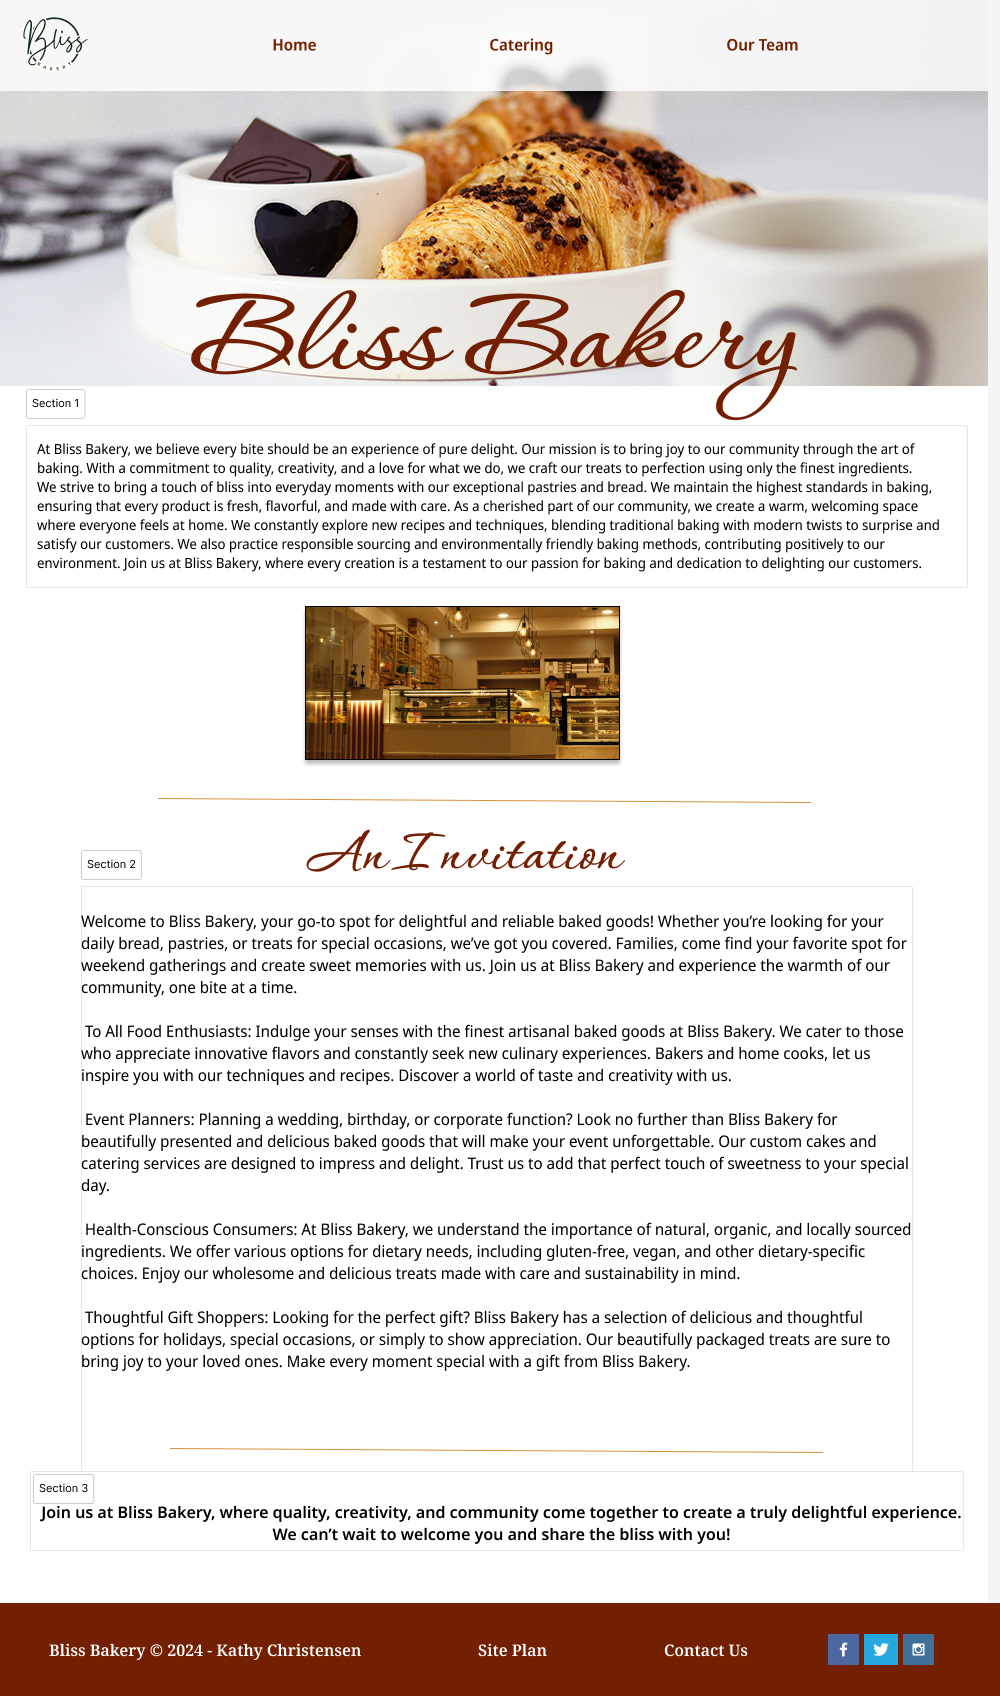
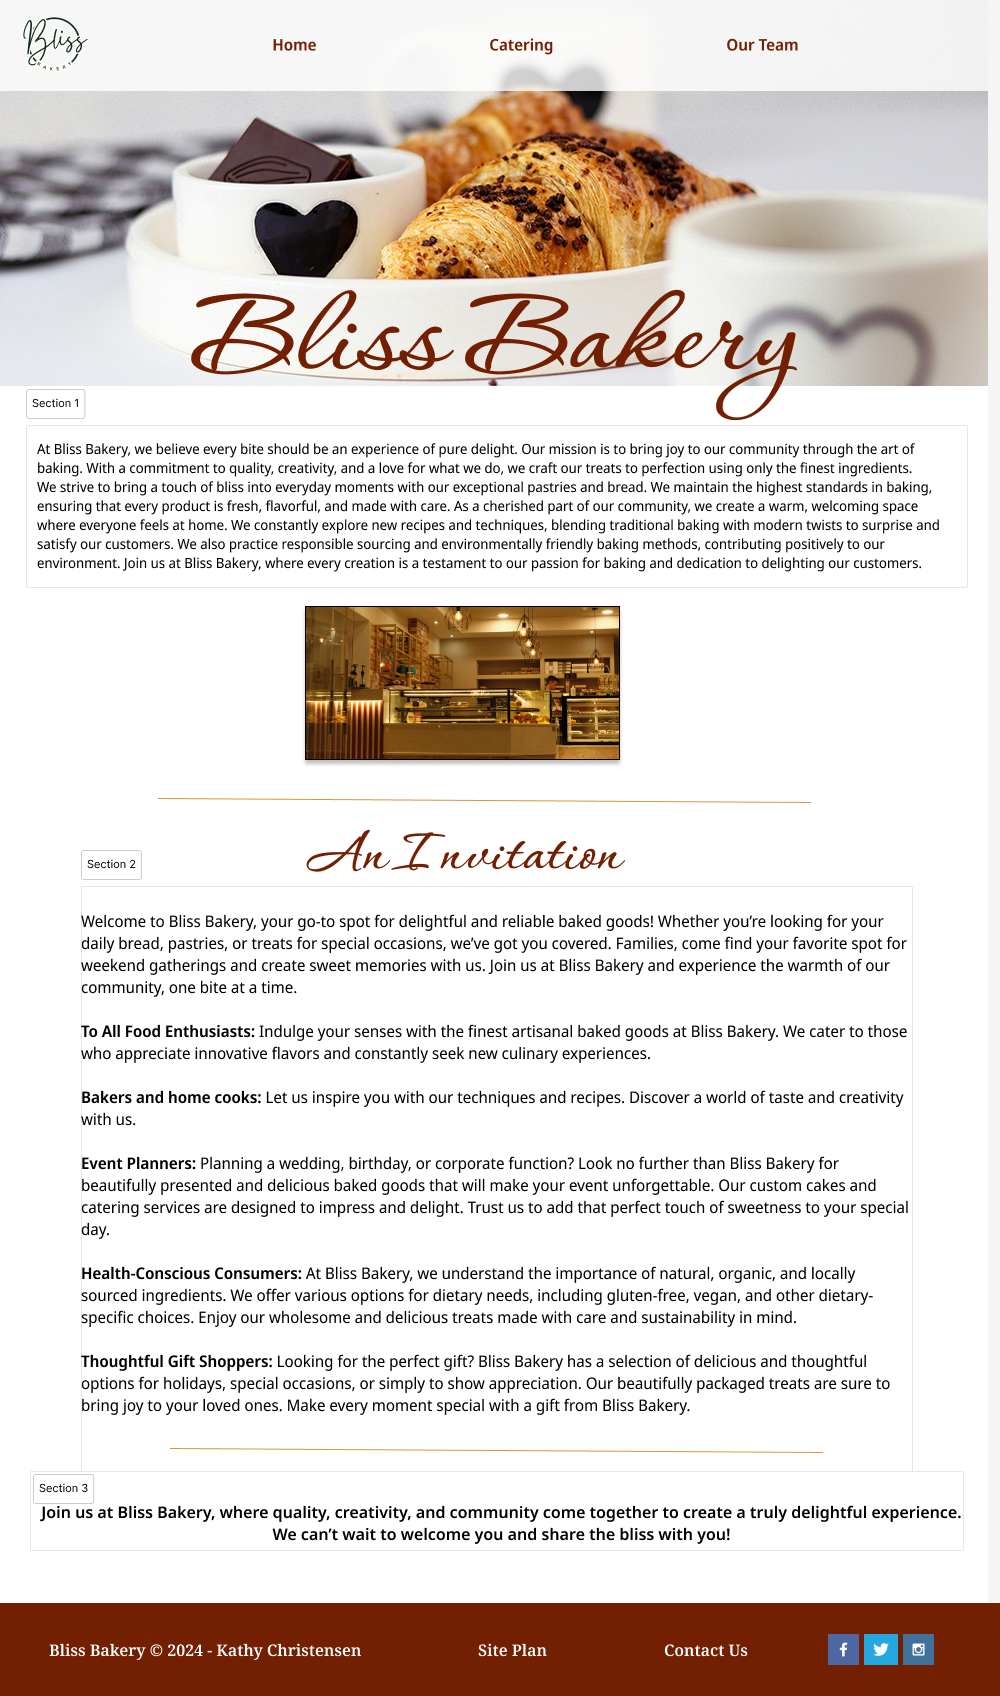
updates to bliss siteplan and begining of site

Changed region(s): [[0.062, 0.5938, 0.899, 0.8438]]

diff --git a/bliss/index.html b/bliss/index.html
@@ -1,0 +1,103 @@
+<!DOCTYPE html>
+<html>
+    <head>
+        <meta charset="utf-8">
+        <meta http-equiv="X-UA-Compatible" content="IE=edge">
+        <title>Bliss Baker | Home</title>
+        <meta name="viewport" content="width=device-width, initial-scale=1">
+        <link rel="stylesheet" href="styles.style.html">
+    </head>
+    <body>
+      <div id="content">
+        <header>
+            <a id="logo_link" href="index.html">
+                <img class="logo" src="images/bliss.png" alt="Bliss Bakery">
+            </a>
+            <nav>
+                <a href="index.html">Home</a>
+                <a href="catering.html">Catering</a>
+                <a href="ourteam.html">Our Team</a>
+            </nav>
+        </header>
+
+        <div id="hero">
+        <div id="hero-box">
+            <img id="hero-img" src="images/banner.jpg" alt="Croissant and Hot Chocolate">
+        </div>
+        <section id="hero-msg">
+            <h1 class="home-title">Bliss Bakery</h1>
+            </div>
+        </section>
+      </div>
+
+      <section id="mission">
+        <div>
+            <p>At Bliss Bakery, we believe every bite should be an experience of pure delight. Our mission is to bring 
+            joy to our community through the art of baking. With a commitment to quality, creativity, and a love for 
+            what we do, we craft our treats to perfection using only the finest ingredients. We strive to bring a touch 
+            of bliss into everyday moments with our exceptional pastries and bread. We maintain the highest standards 
+            in baking, ensuring that every product is fresh, flavorful, and made with care. As a cherished part of our 
+            community, we create a warm, welcoming space where everyone feels at home. We constantly explore new 
+            recipes and techniques, blending traditional baking with modern twists to surprise and satisfy our 
+            customers. We also practice responsible sourcing and environmentally friendly baking methods, contributing 
+            positively to our environment. Join us at Bliss Bakery, where every creation is a testament to our passion 
+            for baking and dedication to delighting our customers.</p>
+            <img src="images/shop.jpg" alt="Interior of Bliss Bakery">
+        </div>
+      </section>
+
+      <section>
+        <h4 id="invite">An Invitation</h4>
+        <div id="welcome">
+            <p>Welcome to Bliss Bakery, your go-to spot for delightful and reliable baked goods! Whether you’re looking 
+            for your daily bread, pastries, or treats for special occasions, we’ve got you covered. Families, come find 
+            your favorite spot for weekend gatherings and create sweet memories with us. Join us at Bliss Bakery and 
+            experience the warmth of our community, one bite at a time.</p>
+            
+            <p>To All Food Enthusiasts: Indulge your senses with the finest artisanal baked goods at Bliss Bakery. We 
+            cater to those who appreciate innovative flavors and constantly seek new culinary experiences.</p>
+
+            <p>Bakers and home cooks: Let us inspire you with our techniques and recipes. Discover a world of taste and 
+            creativity with us.</p>
+            
+            <p>Event Planners: Planning a wedding, birthday, or corporate function? Look no further than Bliss Bakery for 
+            beautifully presented and delicious baked goods that will make your event unforgettable. Our custom cakes and 
+            catering services are designed to impress and delight. Trust us to add that perfect touch of sweetness to your 
+            special day.</p>
+            
+            <p>Health-Conscious Consumers: At Bliss Bakery, we understand the importance of natural, organic, and locally 
+            sourced ingredients. We offer various options for dietary needs, including gluten-free, vegan, and other 
+            dietary-specific choices. Enjoy our wholesome and delicious treats made with care and sustainability in mind.</p>
+            
+            <p>Thoughtful Gift Shoppers: Looking for the perfect gift? Bliss Bakery has a selection of delicious and thoughtful 
+            options for holidays, special occasions, or simply to show appreciation. Our beautifully packaged treats are sure 
+            to bring joy to your loved ones. Make every moment special with a gift from Bliss Bakery.</p>
+        </div>
+
+      </section>
+
+      <section>
+        <div id="join">Join us at Bliss Bakery, where quality, creativity, and community come together to create a truly delightful experience. 
+        We can’t wait to welcome you and share the bliss with you!</div>
+      </section>
+
+        <footer>
+            <p>Bliss Bakery &copy; 2024 - Kathy Christensen</p>
+            <p><a href="site-plan.html">Site Plan</a></p>
+            <p><a href="contactus.html">Contact Us</a></p>
+            
+            <div class="social">
+            <a href="https://facebook.com" target="_blank">
+                <img src="images/facebook.png" alt="facebook icon">
+            </a>
+            <a href="https://twitter.com" target="_blank">
+                <img src="images/twitter.png" alt="twitter icon">
+            </a>
+            <a href="https://instagram.com" target="_blank">
+                <img src="images/instagram.png" alt="instagram icon">
+            </a>
+            </div>
+        </footer>  
+        </div>     
+    </body>
+</html>

diff --git a/bliss/ourteam.html b/bliss/ourteam.html
@@ -1,0 +1,90 @@
+<!DOCTYPE html>
+<html>
+    <head>
+        <meta charset="utf-8">
+        <meta http-equiv="X-UA-Compatible" content="IE=edge">
+        <title>Bliss Baker | Home</title>
+        <meta name="viewport" content="width=device-width, initial-scale=1">
+        <link rel="stylesheet" href="styles.style.html">
+    </head>
+    <body>
+      <div id="content">
+        <header>
+            <a id="logo_link" href="index.html">
+                <img class="logo" src="images/bliss.png" alt="Bliss Bakery">
+            </a>
+            <nav>
+                <a href="index.html">Home</a>
+                <a href="catering.html">Catering</a>
+                <a href="ourteam.html">Our Team</a>
+            </nav>
+        </header>
+
+        <div id="hero">
+        <div id="hero-box">
+            <img id="hero-img" src="images/banner.jpg" alt="Croissant and Hot Chocolate">
+        </div>
+        <section id="hero-msg">
+            <h1 class="home-title">Bliss Bakery</h1>
+            </div>
+        </section>
+      </div>
+
+      <section>
+        <h4 id="meet-team">Meet the Bliss Bakery Team</h4>
+        <div id="kathy">
+            <img src="images/kathy-smith.jpg" alt="Kathy Smith | Founder & Head Baker">
+            <p id="kathy-msg">
+
+            </p>
+        </div>
+
+        <div id="anna">
+            <img src="images/anna-rodriguez.jpg" alt="Anna Rodriguez | Pastry Chef">
+            <p id="anna-msg">
+
+            </p>
+        </div>
+
+        <div id="emily">
+            <img src="images/emily-johnson.jpg" alt="Emily Johnson | Cake Designer">
+            <p id="emily-msg">
+
+
+            </p>
+        </div>
+
+        <div id="michael">
+            <img src="images/michael-lee.jpg" alt="Michael Lee | Bread Specialist">
+            <p id="michael-msg">
+
+
+            </p>
+        </div>
+      </section>
+
+      <section>
+        <div id="join">Join us at Bliss Bakery, where quality, creativity, and community come together to create a truly delightful experience. 
+        We can’t wait to welcome you and share the bliss with you!</div>
+      </section>
+
+        <footer>
+            <p>Bliss Bakery &copy; 2024 - Kathy Christensen</p>
+            <p><a href="site-plan.html">Site Plan</a></p>
+            <p><a href="contactus.html">Contact Us</a></p>
+            
+            <div class="social">
+            <a href="https://facebook.com" target="_blank">
+                <img src="images/facebook.png" alt="facebook icon">
+            </a>
+            <a href="https://twitter.com" target="_blank">
+                <img src="images/twitter.png" alt="twitter icon">
+            </a>
+            <a href="https://instagram.com" target="_blank">
+                <img src="images/instagram.png" alt="instagram icon">
+            </a>
+            </div>
+        </footer>  
+        </div>     
+    </body>
+</html>

diff --git a/bliss/styles/style.css b/bliss/styles/style.css
@@ -1,0 +1,5 @@
+/* if you are using any Google fonts change the font names below to your fonts. 
+Any spaces in your font name should be replaced with a +. 
+Fonts are separated by a | */
+
+@import url('https://fonts.googleapis.com/css?family=Corinthia|Noto');

diff --git a/wwr/index.html b/wwr/index.html
@@ -20,6 +20,7 @@
             <a href="contactus.html">Contact Us</a>
         </nav>
       </header>
+      
       <div id="hero">
         <div id="hero-box">
             <img id="hero-img" src="images/hero.png" alt="People enjoying white water rafting">
